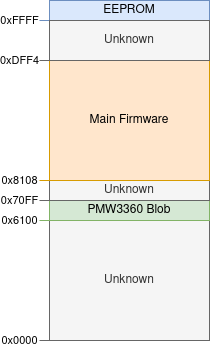
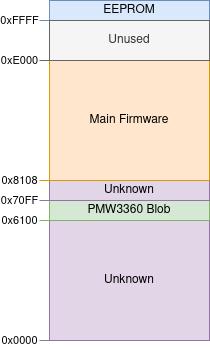
udate readme and EEPROM memory map

diff --git a/README.md b/README.md
@@ -99,6 +99,12 @@ Pin number | Pin name | Function
 
 You can have a further look by taking a peek at the [schematic](board/schematic.pdf) in the board folder.
 
+### firmware
+
+There is no effort being put to reverse engineering the embedded firmware, as our plan is to rewrite one from scratch.
+
+We know now that the MCU as a Bootloader programmed in it's flash memory, that retrieves the firmware from the external EEPROM.
+
 #### Programing the mainboard
 
 The main board has the programing pins exposed and labeled in a 2x2 header connector.
@@ -109,6 +115,7 @@ examples are:
  - ST-Link
  - J-Link
  - FT2232H + openocd
+
 
 ### Sensor
 
@@ -125,9 +132,11 @@ It has an address span from 0x0000 t0 0xFFFF.
 
 There's a datasheet in the documentation folder.
 
-The external EEPROM is most likely used to store configurations, although we have not identified what is stored and where except for the TRUEMOVE3 firmware.
+The external EEPROM is most likely used to store configurations, and firmware blobs, we have not identified what is stored and where except for the TRUEMOVE3 firmware, and the main MCU firmware.
 
 The TRUEMOVE3 firmware is stored in the external EEPROM, it consists of the 4094 continuous bytes starting in address 0x6100.
+
+The main MCU firmware is stored starting in address 0x8108.
 
 ![Memory_map](documentation/EEPROM_map.png)
 
